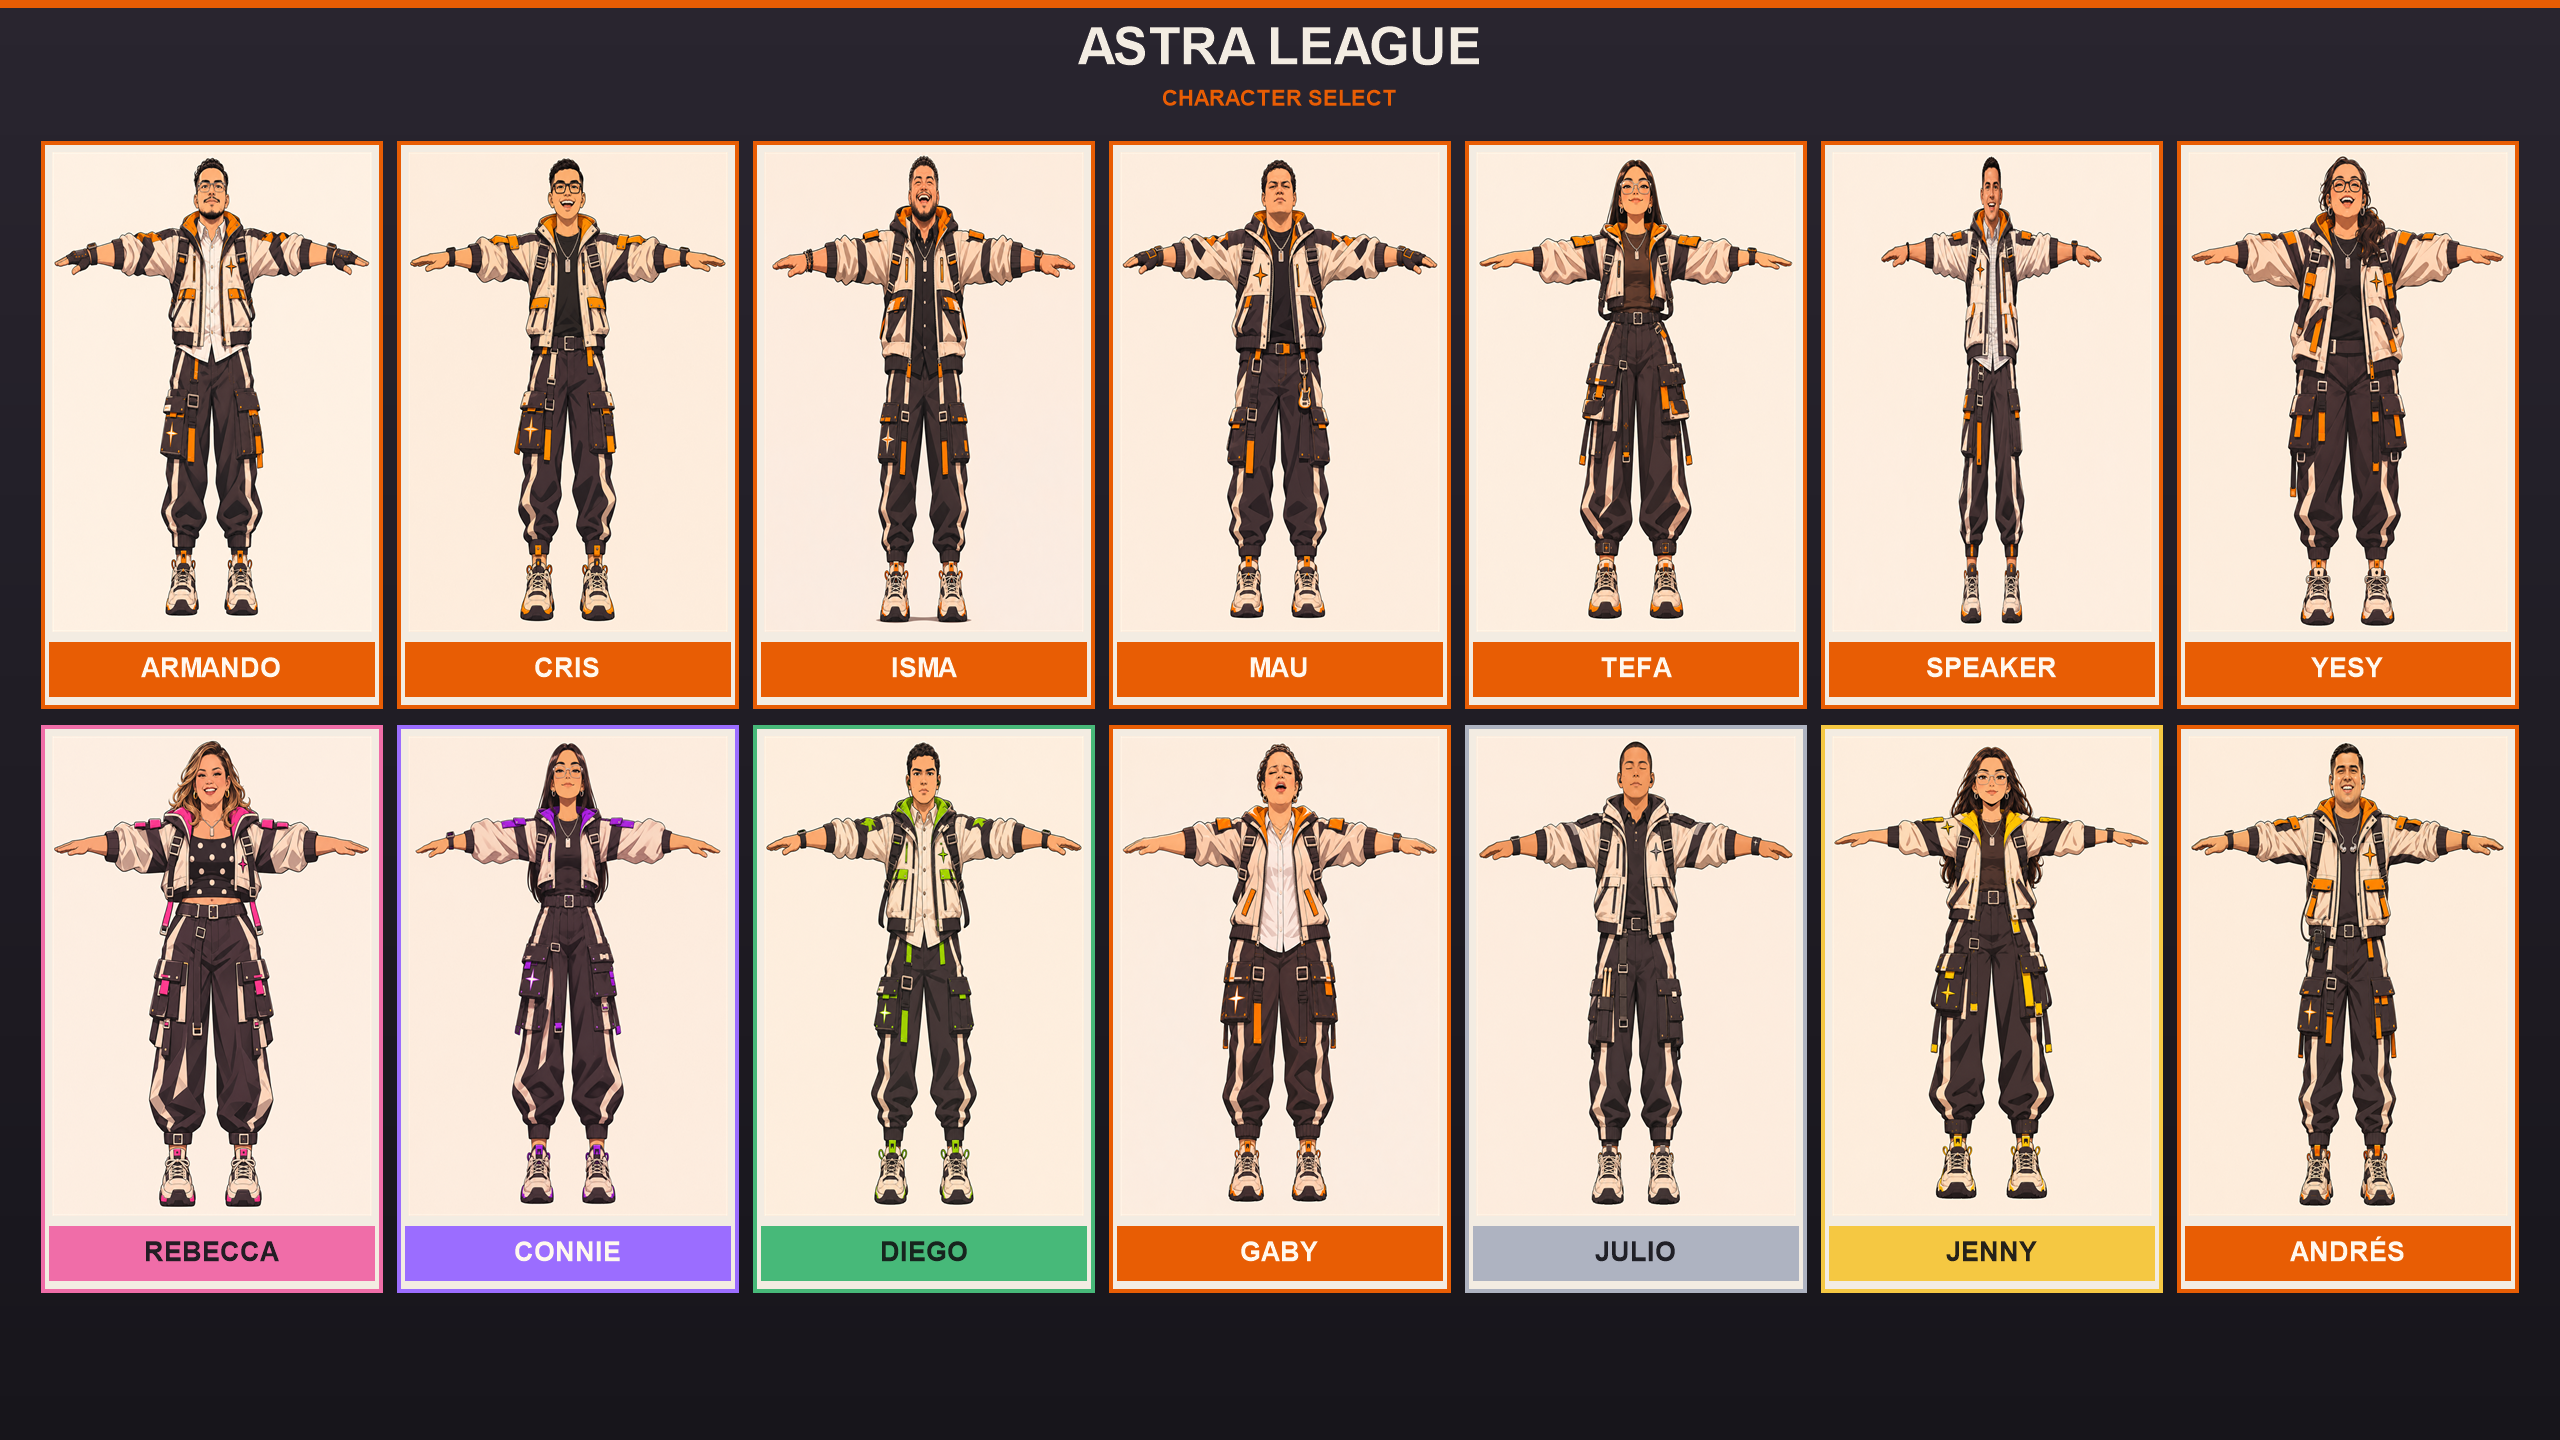
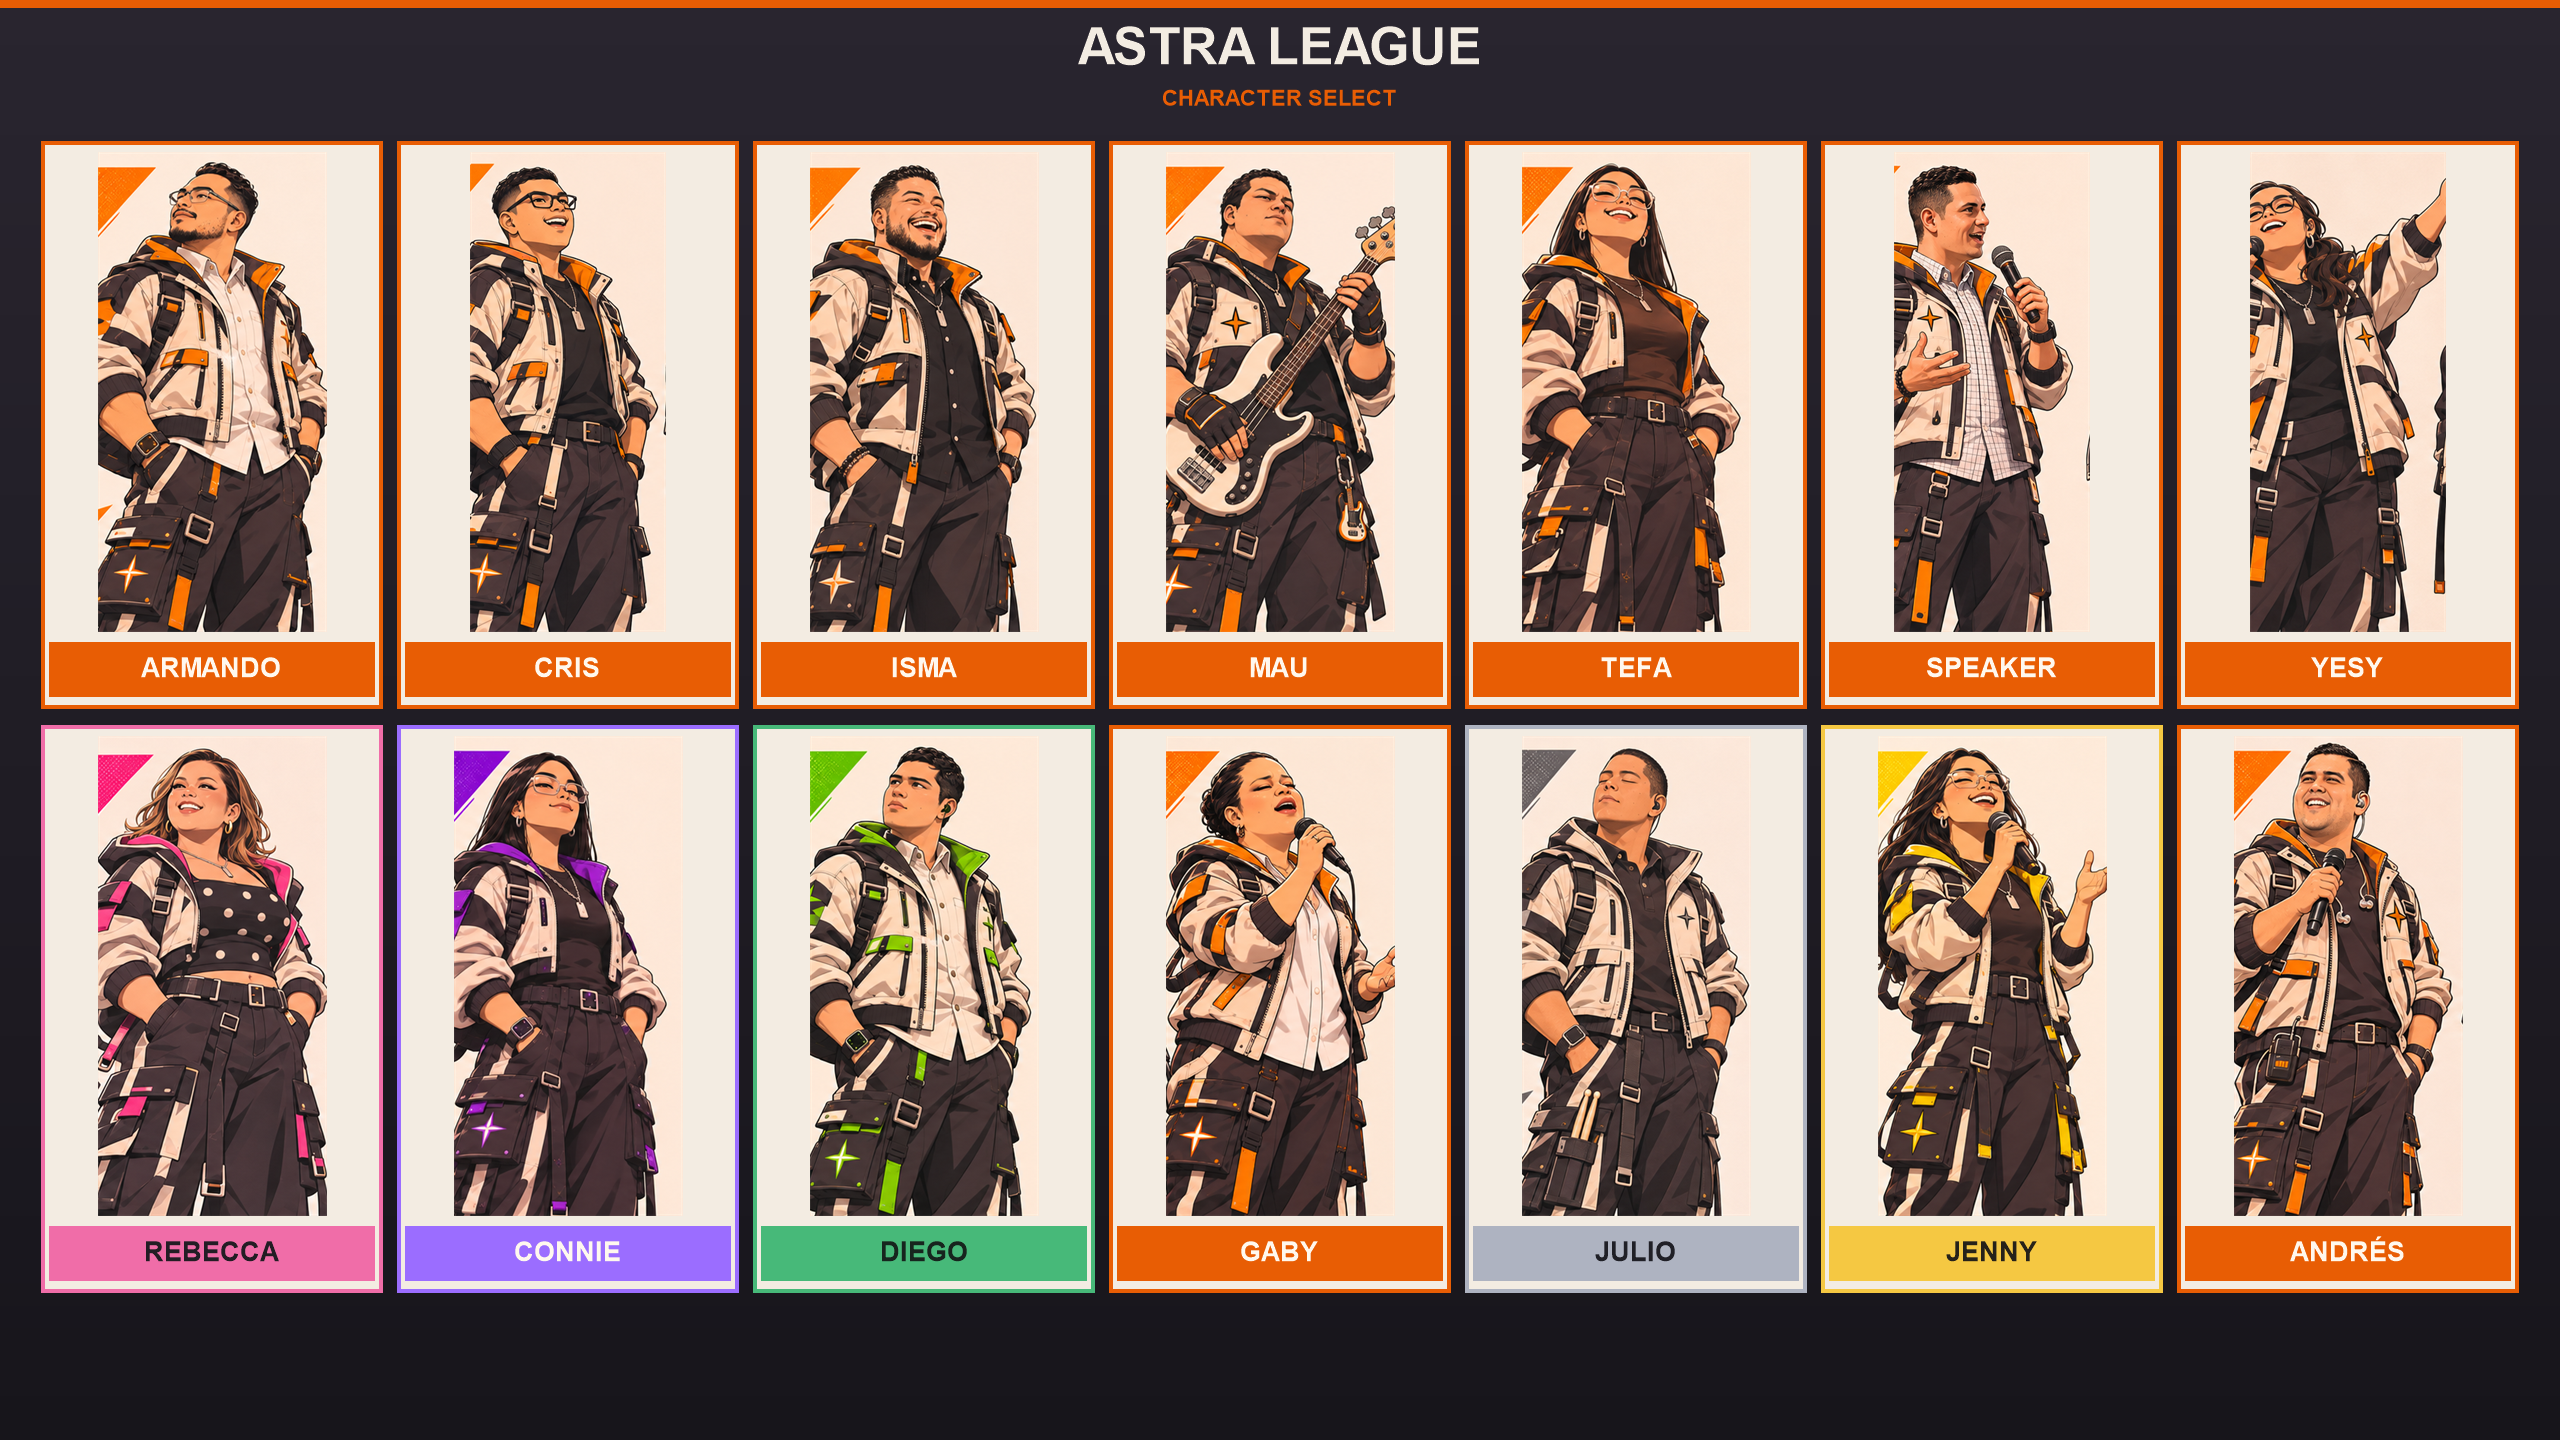
Use character sheet poses in selection menu

Changed region(s): [[0.0312, 0.5, 0.9688, 0.8438], [0.0312, 0.0938, 0.8125, 0.4375], [0.8438, 0.0938, 0.9688, 0.4375]]

diff --git a/art/README.md b/art/README.md
@@ -6,4 +6,4 @@ Accent colors: orange for Armando, Cris, Isma, Mau, Tefa, speaker, Yesy, Gaby, a
 
 Julio's eyes are gently closed in both references. The three WhatsApp photos of Jenny were used as references for the same character. `speaker.png` refers to the unnamed person in an earlier WhatsApp image. Andrés is the lead singer and the three supplied Andrés images show the same person.
 
-The 14-character menu roster is `character-select-menu.png` (2560×1440). See `PROJECT-CONTEXT.md` for the roster and continuation notes.
+The 14-character selection menu is `character-select-menu.png` (2560×1440); its portraits are cropped from the main non-T-pose illustrations on the character sheets. See `PROJECT-CONTEXT.md` for the roster and continuation notes.

diff --git a/art/PROJECT-CONTEXT.md b/art/PROJECT-CONTEXT.md
@@ -35,3 +35,6 @@ Use this file to continue the character-art work in a future chat.
 - Selection menu PNG: rt/character-select-menu.png (2560×1440).
 - Shared chat context: https://chatgpt.com/s/cx_6af613e7c0048191b62eaf88ab77219b
 
+
+- The current character selection menu uses posed illustrations cropped from character-sheets/; it does not use the T-pose images.
+
